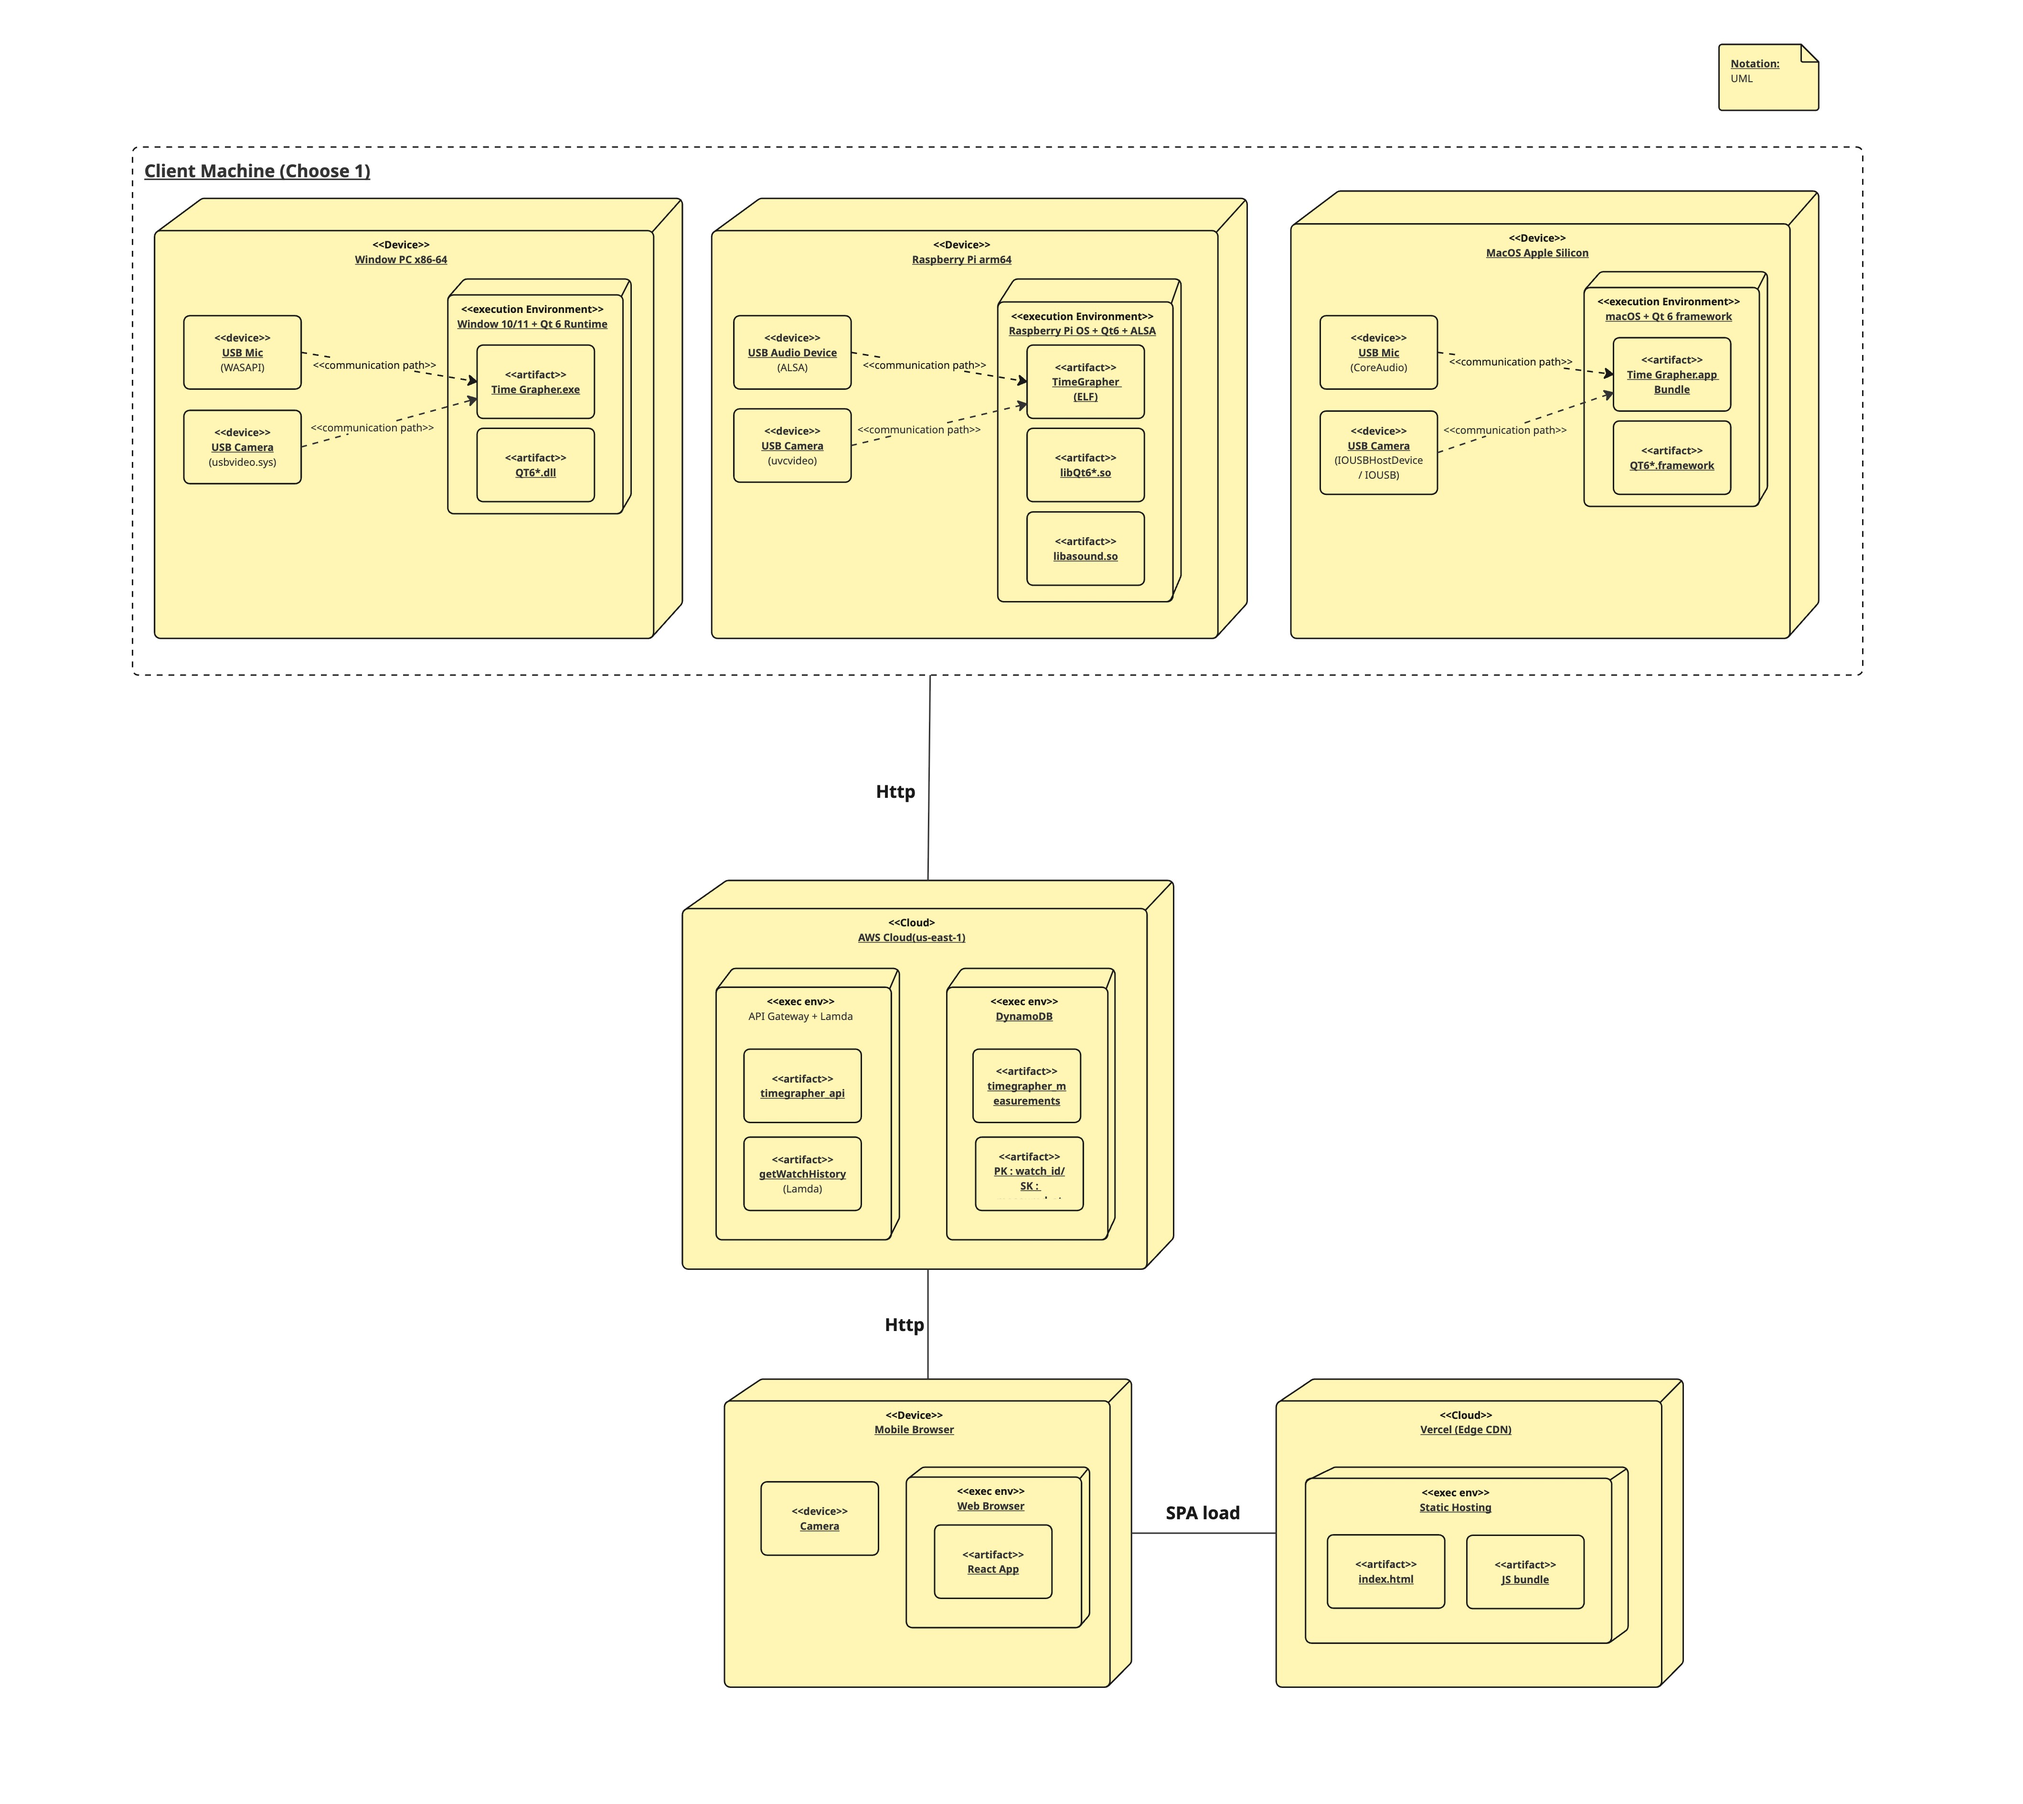
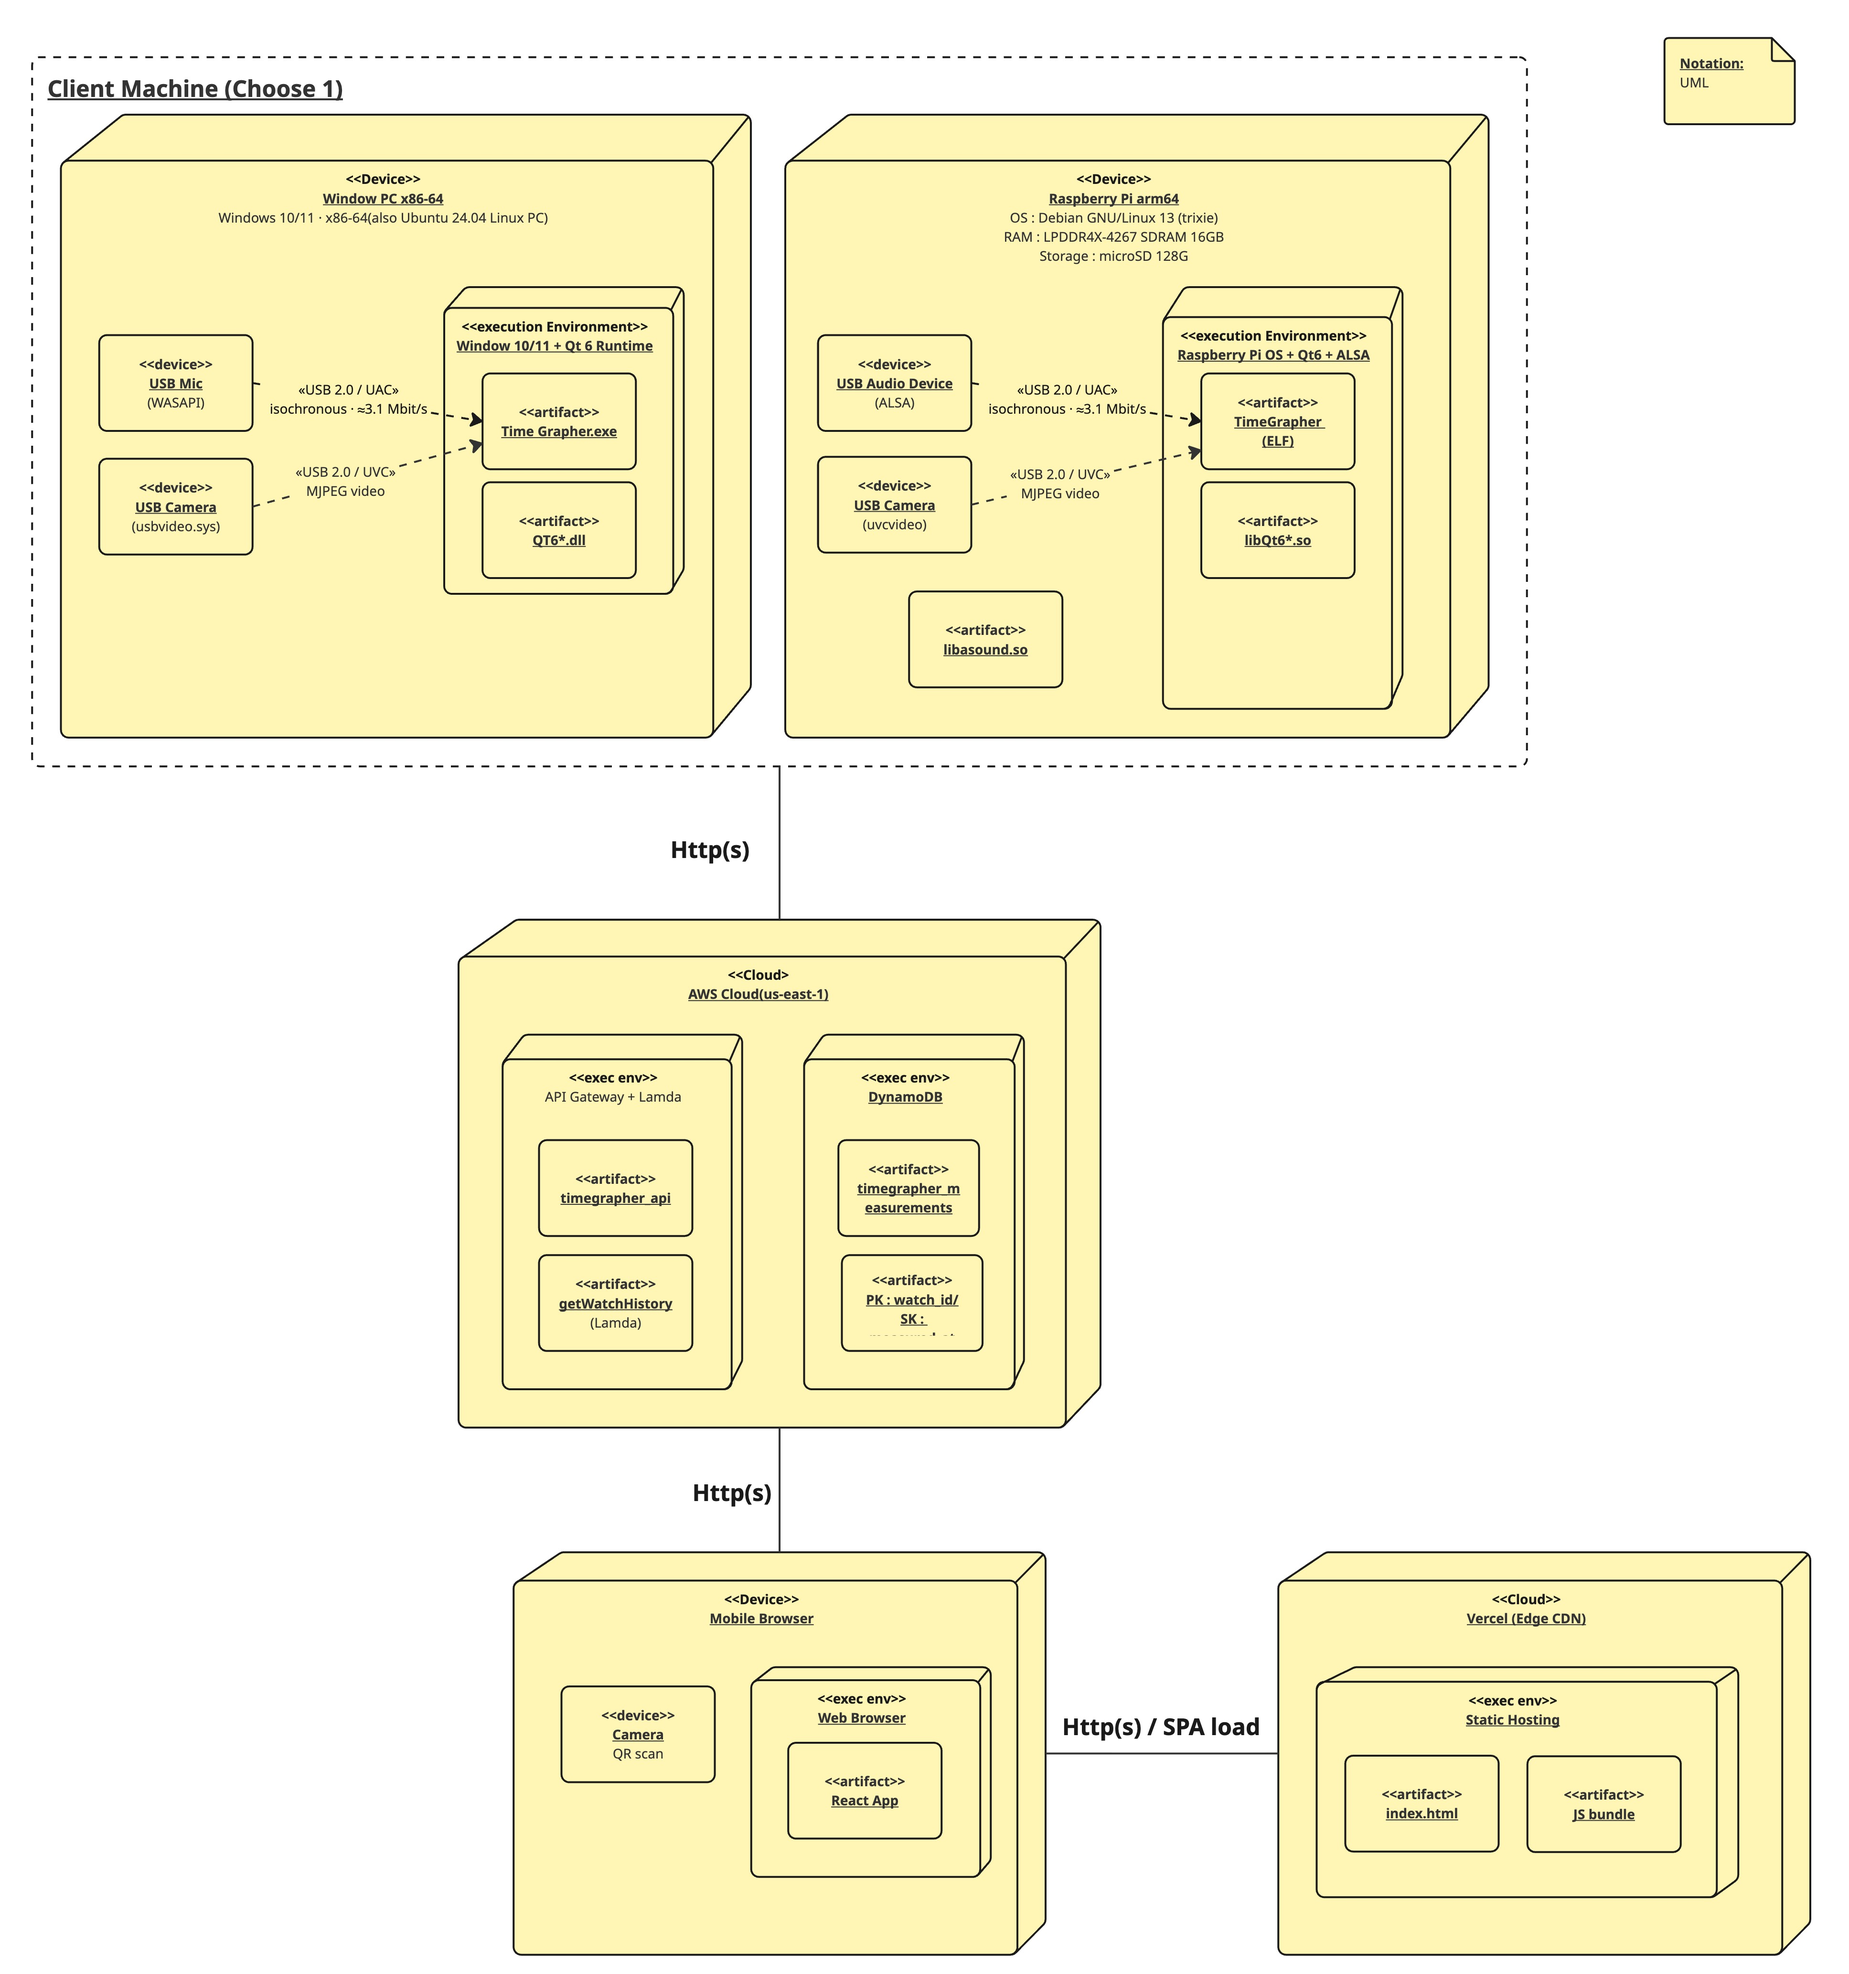
changed deployment view

Changed region(s): [[0.248, 0.4062, 0.992, 1.0], [0.031, 0.0312, 0.899, 0.375], [0.837, 0.0, 0.992, 0.0625]]

diff --git a/documents/ArchitectureViews/AV-006-Deployment-view.md b/documents/ArchitectureViews/AV-006-Deployment-view.md
@@ -1,6 +1,6 @@
 # Deployment View
 
-The opening paragraph contradicts the diagram — it says "standalone desktop application with no network dependencies," but the diagram shows the desktop app uploading over HTTP to AWS Cloud, plus a mobile browser loading an SPA from Vercel. Let me fix that first description.
+This view shows the physical deployment of the TimeGrapher system. A **client machine** (x86-64 PC *or* Raspberry Pi 5) runs the measurement app and uploads each session to an **AWS serverless backend**; a **mobile browser** scans the generated QR to view the watch history as an SPA served from **Vercel**.
 
 ![Deployment View](../images/deploymentView.jpg)
 
